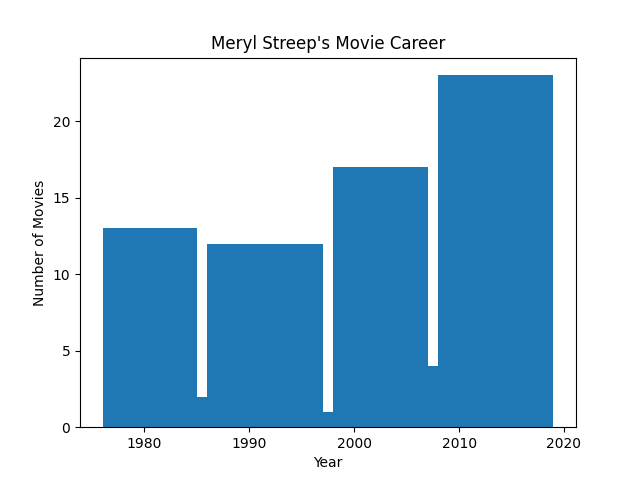
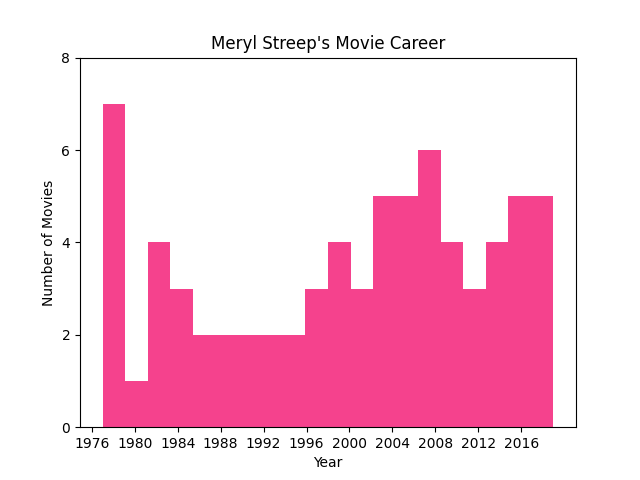
Updated the color

diff --git a/main.py b/main.py
@@ -2,12 +2,14 @@ import matplotlib.pyplot as plt
 
 movie_year = [2019,2019,2018,2018,2017,2016,2016,2016,2015,2015,2014,2014,2014,2013,2012,2012,2011,2010,2010,2009,2009,2008,2008,2007,2007,2007,2007,2006,2006,2006,2006,2005,2004,2004,2003,2003,2003,2002,2002,2001,1999,1999,1998,1998,1997,1996,1996,1995,1994,1993,1992,1991,1990,1989,1988,1987,1986,1985,1985,1984,1983,1982,1982,1982,1981,1979,1979,1979,1978,1978,1977,1977]
 
-bins =[1976,1985, 1986,1997, 1998,2007, 2008,2019]
+bins = 20
 
-plt.hist(movie_year, bins, histtype="bar")
+plt.hist(movie_year, bins, histtype="bar",color="#f5428d")
 
 plt.xlabel("Year")
 plt.ylabel("Number of Movies")
 plt.title("Meryl Streep's Movie Career")
+plt.xticks(range(1976,2020, 4))
+plt.yticks(range(0, 10, 2))
 
 plt.savefig("Meryl_Streep.png")
